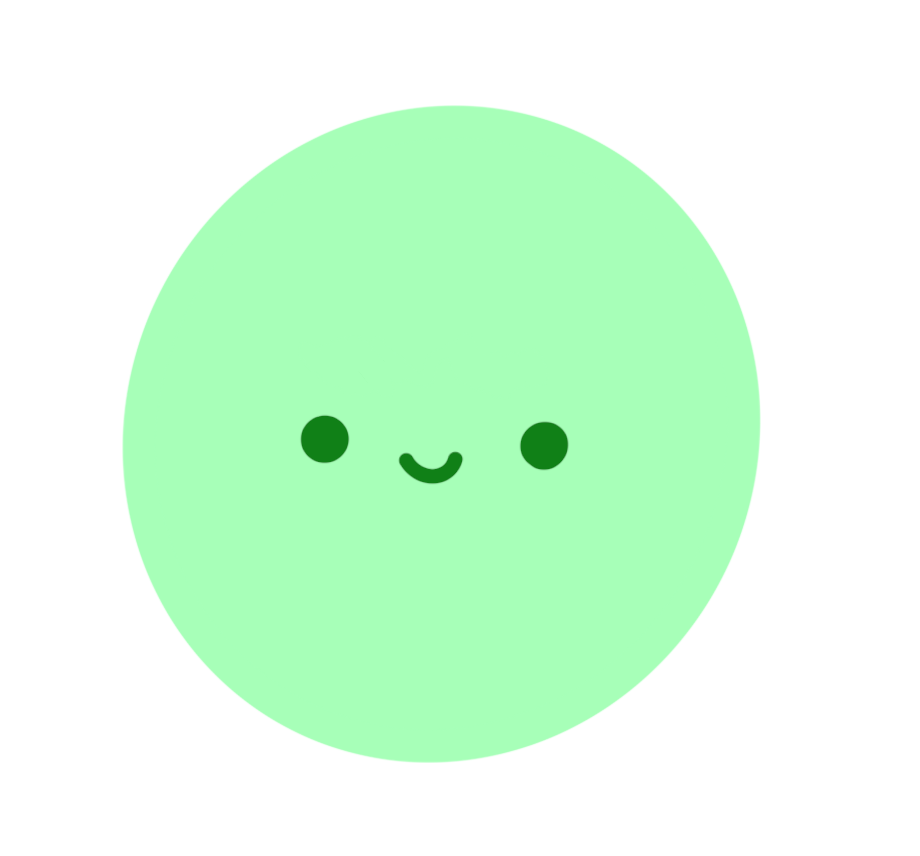
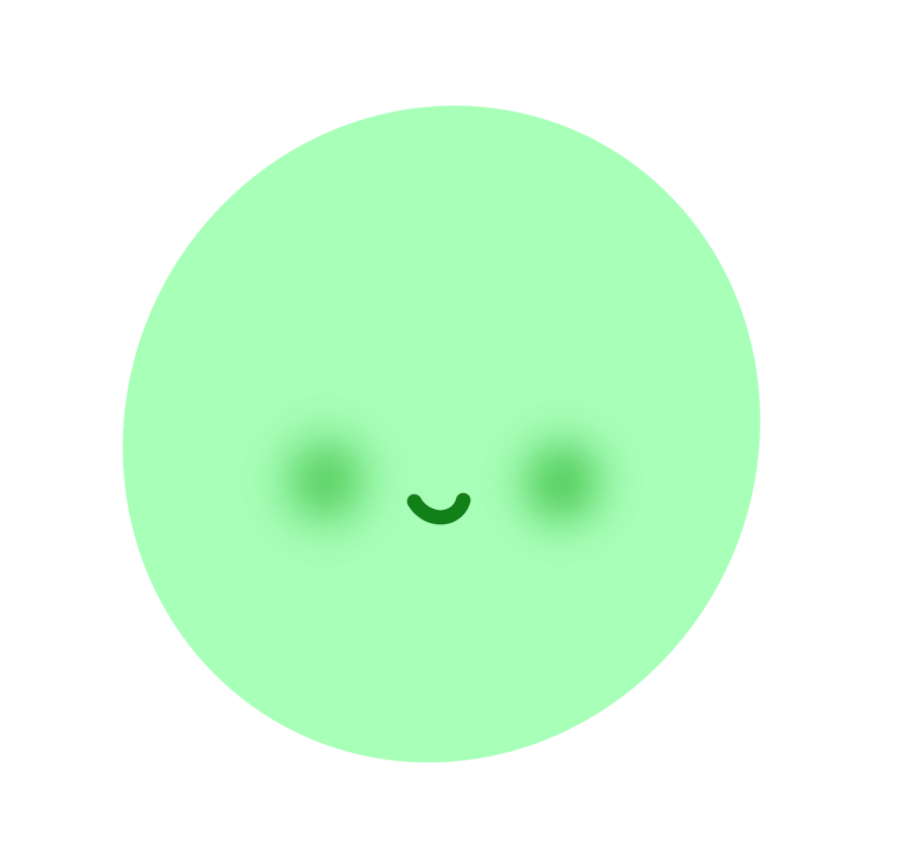
All Eyes testing

Changed region(s): [[0.3043, 0.486, 0.5174, 0.6379], [0.5478, 0.486, 0.6696, 0.6379]]

diff --git a/2Draw_faces.js b/2Draw_faces.js
@@ -90,21 +90,41 @@ image(currentBackground, 0, 0, 1280, 720);
  pop()
 
     if(currentImage === starImage){
-//star left eye
     noStroke();
     fill(142, 107, 17);
-    ellipse(leftEyeCenterX, leftEyeCenterY, leftEyeWidth, leftEyeHeight*10);
+//star left eye
+    ellipse(leftEyeCenterX, leftEyeCenterY, leftEyeWidth, leftEyeHeight*8);
 //star right eye
-    ellipse(rightEyeCenterX, rightEyeCenterY, rightEyeWidth, rightEyeHeight*10);
+    ellipse(rightEyeCenterX, rightEyeCenterY, rightEyeWidth, rightEyeHeight*8);
     }
+
+
  if(currentImage === heartImage){
+   noStroke();
+    fill(142, 17, 108);
+ //heart left eye
+    ellipse(leftEyeCenterX, leftEyeCenterY, leftEyeWidth, leftEyeHeight*8);
+//heart right eye
+    ellipse(rightEyeCenterX, rightEyeCenterY, rightEyeWidth, rightEyeHeight*8);
+    }
 
- }
+ 
 if(currentImage === cloudImage){
-
+ noStroke();
+    fill(22, 50, 98);
+ //Cloud left eye
+    ellipse(leftEyeCenterX, leftEyeCenterY, leftEyeWidth, leftEyeHeight*8);
+//Cloud right eye
+    ellipse(rightEyeCenterX, rightEyeCenterY, rightEyeWidth, rightEyeHeight*8);
 
 }
   if(currentImage === circleImage){ 
+ noStroke();
+    fill(16, 128, 23);
+ //Circle left eye
+    ellipse(leftEyeCenterX, leftEyeCenterY, leftEyeWidth, leftEyeHeight*8);
+//circle right eye
+    ellipse(rightEyeCenterX, rightEyeCenterY, rightEyeWidth, rightEyeHeight*8);
 
 
   }

diff --git a/index.html b/index.html
@@ -18,7 +18,7 @@
   <script src="z_initialisation.js"></script>  
   <script src="z_ModelLoader.js"></script>
 
-   <script src="1Draw_hands.js"></script> <!--CHANGE THIS ONE -->
+   <script src="2Draw_faces.js"></script> <!--CHANGE THIS ONE -->
    
 </head>
 
